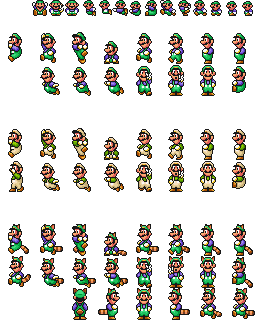
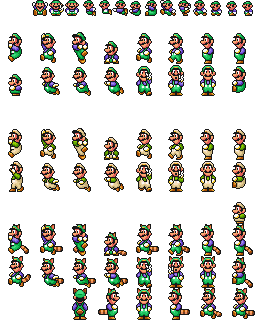
32x32 player sheet completed

Changed region(s): [[0.9062, 0.625, 0.9688, 0.7188], [0.0312, 0.2188, 0.0938, 0.3125]]

diff --git a/royale-client/src/main/webapp/js/app/game/object/player.js b/royale-client/src/main/webapp/js/app/game/object/player.js
@@ -83,6 +83,9 @@ PlayerObject.NAME = "Player"; // Used by editor
 PlayerObject.ANIMATION_RATE = 6;
 PlayerObject.DIM_OFFSET = vec2.make(-.05, 0.);
 
+PlayerObject.OFFSET_32X_LEFT = vec2.make(.50, 0.);
+PlayerObject.OFFSET_32X_RIGHT = vec2.make(-.48, 0.);
+
 PlayerObject.DEAD_FREEZE_TIME = 28;
 PlayerObject.DEAD_TIME = 140;
 PlayerObject.DEAD_UP_FORCE = 1;
@@ -171,33 +174,33 @@ PlayerObject.SPRITE_LIST = [
   {NAME: "S_SWIM1", ID: 0x0A, INDEX: 0x0006},
   {NAME: "S_SWIM2", ID: 0x0B, INDEX: 0x0005},
   /* [B]ig Mario */
-  {NAME: "B_STAND", ID: 0x20, INDEX: [[0x003E], [0x02E]]}, 
-  {NAME: "B_DOWN", ID: 0x21, INDEX: [[0x003A], [0x02A]]},
-  {NAME: "B_RUN0", ID: 0x22, INDEX: [[0x003D], [0x02D]]},
-  {NAME: "B_RUN1", ID: 0x23, INDEX: [[0x003C], [0x02C]]},
-  {NAME: "B_RUN2", ID: 0x24, INDEX: [[0x003B], [0x02B]]},
-  {NAME: "B_SLIDE", ID: 0x25, INDEX: [[0x0039], [0x0029]]},
-  {NAME: "B_FALL", ID: 0x26, INDEX: [[0x0038], [0x028]]},
-  {NAME: "B_CLIMB0", ID: 0x27, INDEX: [[0x0037], [0x027]]},
-  {NAME: "B_CLIMB1", ID: 0x28, INDEX: [[0x0036], [0x026]]},
-  {NAME: "B_TRANSFORM", ID:0x29, INDEX:[[0x003F], [0x02F]]},
-  {NAME: "B_TAUNT", ID:0x2A, INDEX:[[0x005E], [0x004E]]},
+  {NAME: "B_STAND", ID: 0x20, INDEX: [[63, 62], [47, 46]]}, 
+  {NAME: "B_DOWN", ID: 0x21, INDEX: [[55, 54], [39, 38]]},
+  {NAME: "B_RUN0", ID: 0x22, INDEX: [[61, 60], [45, 44]]},
+  {NAME: "B_RUN1", ID: 0x23, INDEX: [[59, 58], [43, 42]]},
+  {NAME: "B_RUN2", ID: 0x24, INDEX: [[57, 56], [41, 40]]},
+  {NAME: "B_SLIDE", ID: 0x25, INDEX: [[53, 52], [37, 36]]},
+  {NAME: "B_FALL", ID: 0x26, INDEX: [[51, 50], [35, 34]]},
+  {NAME: "B_CLIMB0", ID: 0x27, INDEX: [[49, 48], [33, 32]]},
+  {NAME: "B_CLIMB1", ID: 0x28, INDEX: [[95, 94], [79, 78]]},
+  {NAME: "B_TRANSFORM", ID:0x29, INDEX:[[81, 80], [65, 64]]},
+  {NAME: "B_TAUNT", ID:0x2A, INDEX:[[89, 88], [73, 72]]},
   /* [F]ire flower Mario */
-  {NAME: "F_STAND", ID: 0x40, INDEX: [[0x007E], [0x06E]]}, 
-  {NAME: "F_DOWN", ID: 0x41, INDEX: [[0x007A], [0x06A]]},
-  {NAME: "F_RUN0", ID: 0x42, INDEX: [[0x007D], [0x06D]]},
-  {NAME: "F_RUN1", ID: 0x43, INDEX: [[0x007C], [0x06C]]},
-  {NAME: "F_RUN2", ID: 0x44, INDEX: [[0x007B], [0x06B]]},
-  {NAME: "F_SLIDE", ID: 0x45, INDEX: [[0x0079], [0x069]]},
-  {NAME: "F_FALL", ID: 0x46, INDEX: [[0x0078], [0x068]]},
-  {NAME: "F_CLIMB0", ID: 0x47, INDEX: [[0x0077], [0x067]]},
-  {NAME: "F_CLIMB1", ID: 0x48, INDEX: [[0x0076], [0x066]]},
-  {NAME: "F_ATTACK", ID: 0x49, INDEX: [[0x0095], [0x085]]},
-  {NAME: "F_TRANSFORM", ID:0x50, INDEX:[[0x007F], [0x006F]]},
-  {NAME: "F_TAUNT", ID:0x51, INDEX:[[0x009E], [0x008E]]},
+  {NAME: "F_STAND", ID: 0x40, INDEX: [[159, 158], [143, 142]]}, 
+  {NAME: "F_DOWN", ID: 0x41, INDEX: [[151, 150], [135, 134]]},
+  {NAME: "F_RUN0", ID: 0x42, INDEX: [[157, 156], [141, 140]]},
+  {NAME: "F_RUN1", ID: 0x43, INDEX: [[155, 154], [139, 138]]},
+  {NAME: "F_RUN2", ID: 0x44, INDEX: [[153, 152], [137, 136]]},
+  {NAME: "F_SLIDE", ID: 0x45, INDEX: [[149, 148], [133, 132]]},
+  {NAME: "F_FALL", ID: 0x46, INDEX: [[147, 146], [131, 130]]},
+  {NAME: "F_CLIMB0", ID: 0x47, INDEX: [[191, 190], [175, 174]]},
+  {NAME: "F_CLIMB1", ID: 0x48, INDEX: [[145, 144], [129, 128]]},
+  {NAME: "F_ATTACK", ID: 0x49, INDEX: [[177, 176], [161, 160]]},
+  {NAME: "F_TRANSFORM", ID:0x50, INDEX:[[223, 222], [207, 206]]},
+  {NAME: "F_TAUNT", ID:0x51, INDEX:[[185, 184], [169, 168]]},
   /* [G]eneric */
   {NAME: "G_DEAD", ID: 0x60, INDEX: 0x0002},
-  {NAME: "G_HIDE", ID: 0x70, INDEX: 0x00FF}
+  {NAME: "G_HIDE", ID: 0x70, INDEX: 0x0000}
 ];
 
 /* Makes sprites easily referenceable by NAME. For sanity. */
@@ -1037,8 +1040,8 @@ PlayerObject.prototype.draw = function(sprites) {
     var s = this.sprite.INDEX;
     for(var i=0;i<s.length;i++) {
       for(var j=0;j<s[i].length;j++) {
-        if(mod === 0x02) { sprites.push({pos: vec2.add(vec2.add(this.pos, PlayerObject.DIM_OFFSET), vec2.make(this.reverse?j:-j,i)), reverse: this.reverse, index: s[i][j], mode: 0x00, player: true, character: this.character}); }
-        sprites.push({pos: vec2.add(vec2.add(this.pos, PlayerObject.DIM_OFFSET), vec2.make(this.reverse?j:-j,i)), reverse: this.reverse, index: s[i][j], mode: mod, player: true, character: this.character});
+        if(mod === 0x02) { sprites.push({pos: vec2.add(vec2.add(this.pos, vec2.add(this.reverse ? PlayerObject.OFFSET_32X_RIGHT : PlayerObject.OFFSET_32X_LEFT, PlayerObject.DIM_OFFSET)), vec2.make(this.reverse?j:-j,i)), reverse: this.reverse, index: s[i][j], mode: 0x00, player: true, character: this.character}); }
+        sprites.push({pos: vec2.add(vec2.add(this.pos, vec2.add(this.reverse ? PlayerObject.OFFSET_32X_RIGHT : PlayerObject.OFFSET_32X_LEFT, PlayerObject.DIM_OFFSET)), vec2.make(this.reverse?j:-j,i)), reverse: this.reverse, index: s[i][j], mode: mod, player: true, character: this.character});
       }
     }
   }

diff --git a/royale-client/src/main/webapp/index.html b/royale-client/src/main/webapp/index.html
@@ -62,7 +62,7 @@
         <div class='dis-sm'>All game assets are properties of their respective owners.</div>
 
         <!-- Trick the user into interacting with the site so we can play title music -->
-        <div class="dis-next" id="next">Continue</div>
+        <div class="dis-next" id="next" style="display:none;">Continue</div>
       </div>
       
       <!-- Loading Screen -->

diff --git a/royale-client/src/main/webapp/js/app/menu/menu-background.js b/royale-client/src/main/webapp/js/app/menu/menu-background.js
@@ -20,6 +20,7 @@ function MenuDisplay() {
         
         var that = this;
         this.frameReq = setInterval(() => {that.draw();}, 1000 / 60) // 60FPS
+        document.getElementById("next").style.display = "";
     }).catch(err => {
         console.error(err);
     });
